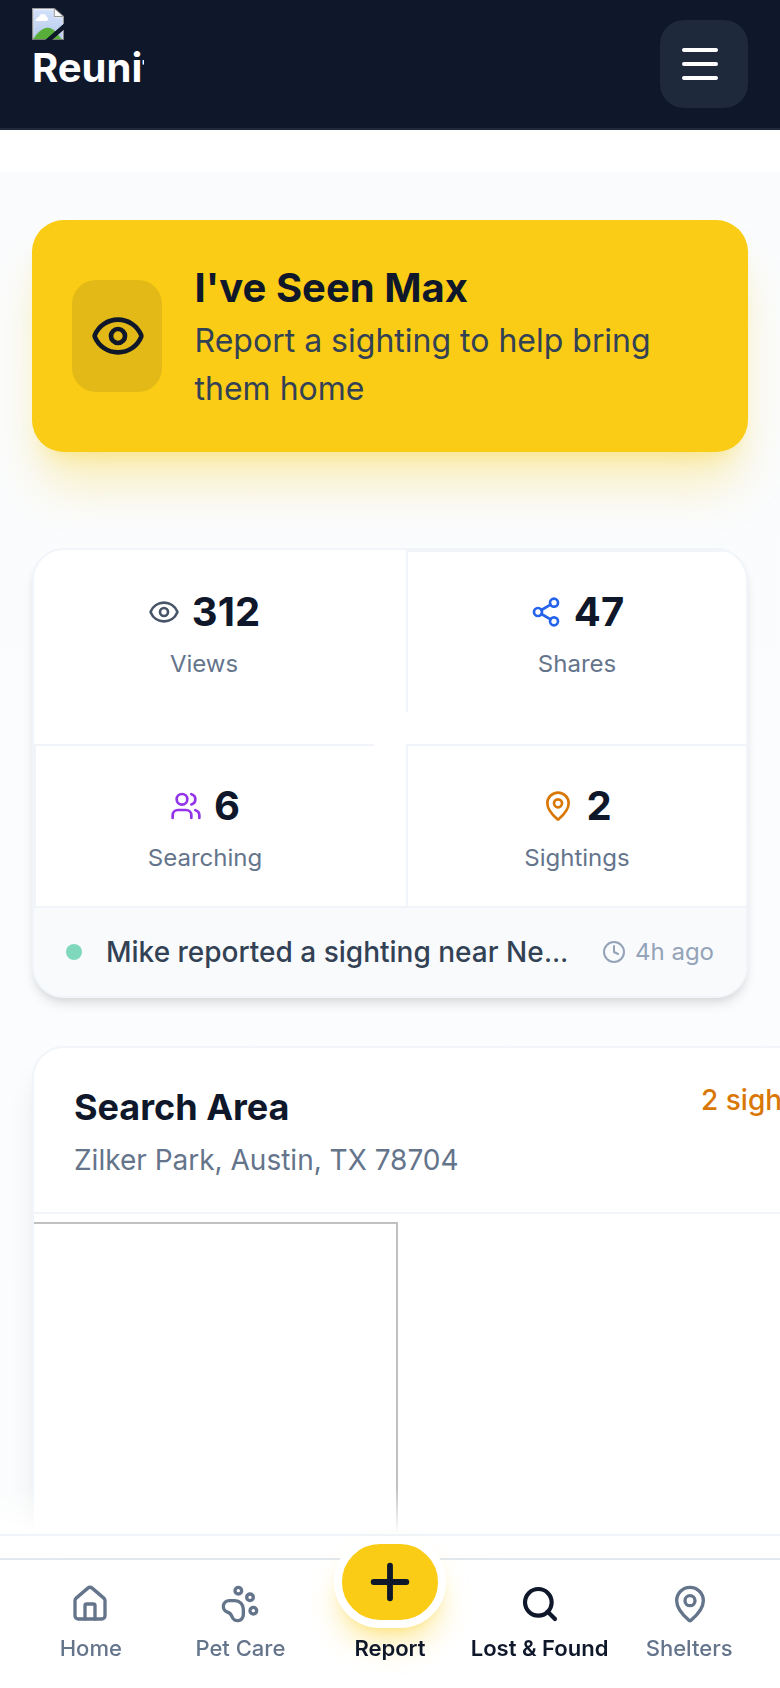
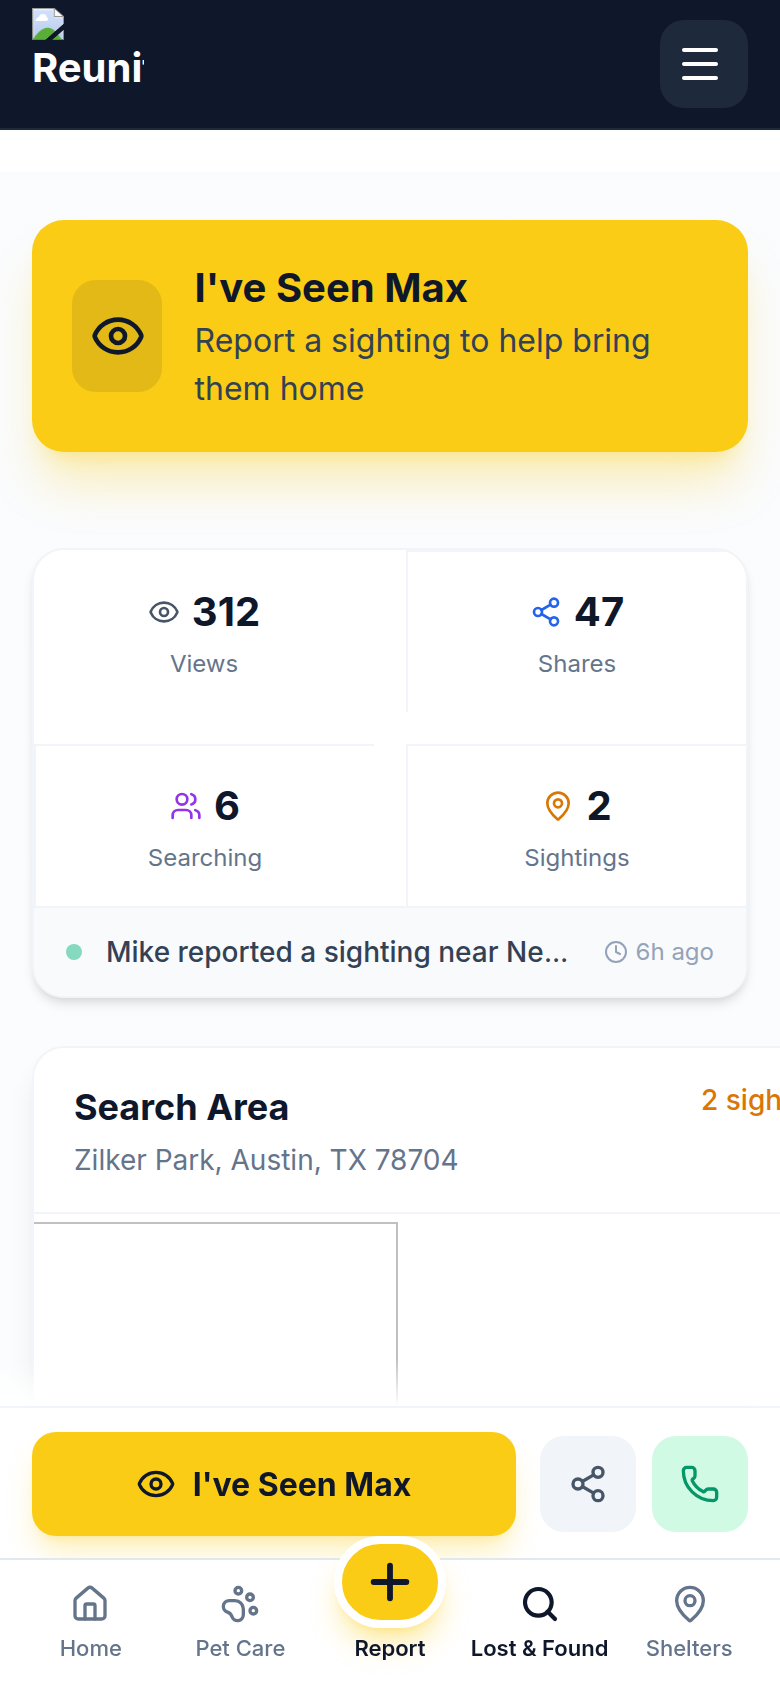
B5: the sighting CTA is reachable on a phone again
On a case page the sticky "I've Seen <pet>" bar was fixed bottom-0 z-40 and
the global tab bar is fixed bottom-0 z-50 with an opaque white background.
Measured at 390x844: the tab bar covered 65px of the CTA's 101px and a tap at
the CTA's centre landed on the tab bar underneath, navigating the finder away.
The single control that files a sighting could not be pressed on the device
most people use.

The bar now sits at bottom-16, exactly one tab-bar row up. Both are lg:hidden
and the tab bar only disappears inside an immersive route, which a case page
never is, so they move together. The CTA's safe-area padding is dropped since
the tab bar below owns that inset.

Verified at 390x844: CTA 679-780, tab bar 779-844, no overlap, and a real tap
at the CTA's centre opens the sighting modal instead of navigating away.
Screenshot: screenshots/audit-2026-08/state/31-mobile-case-cta-fixed.png

The probe script only looked for fixed elements at bottom:0, so it could not
see the moved bar; it now matches anything anchored near the bottom edge.

Claude-Session: https://claude.ai/code/session_013tPfhRLLRWQCoHr39v74ue

diff --git a/frontend/app/cases/[caseNumber]/components/StickyMobileCTA.js b/frontend/app/cases/[caseNumber]/components/StickyMobileCTA.js
@@ -43,13 +43,23 @@ export default function StickyMobileCTA({
           animate={{ y: 0, opacity: 1 }}
           exit={{ y: 100, opacity: 0 }}
           transition={{ type: 'spring', damping: 25, stiffness: 300 }}
-          className="fixed bottom-0 left-0 right-0 z-40 lg:hidden"
+          /* bottom-16 sits this bar exactly on top of GlobalBottomNav, whose
+             row is h-16. Both are lg:hidden and the tab bar only disappears
+             inside an immersive route, which a case page never is, so they
+             appear and disappear together.
+
+             This was bottom-0 z-40 against the tab bar's bottom-0 z-50 opaque
+             white: the tab bar covered 65px of this bar's 101px and a tap at
+             this bar's centre landed on the tab bar underneath. The one control
+             that files a sighting was unreachable on a phone. If you change the
+             tab bar height, change this with it. */
+          className="fixed bottom-16 left-0 right-0 z-40 lg:hidden"
         >
           {/* Gradient fade for smooth transition */}
           <div className="h-6 bg-gradient-to-t from-white to-transparent" />
 
-          {/* CTA Bar */}
-          <div className="bg-white border-t border-midnight-100 shadow-lg px-4 py-3 safe-area-inset-bottom">
+          {/* CTA Bar - no safe-area padding here; the tab bar below owns it */}
+          <div className="bg-white border-t border-midnight-100 shadow-lg px-4 py-3">
             <div className="flex items-center gap-3">
               {/* Primary CTA - Report Sighting */}
               <button

diff --git a/frontend/scripts/audit-probe-mobile-cta.js b/frontend/scripts/audit-probe-mobile-cta.js
@@ -52,9 +52,13 @@ fs.mkdirSync(OUT, { recursive: true });
     const box = (el) => { const r = el.getBoundingClientRect(); return { top: Math.round(r.top), bottom: Math.round(r.bottom), h: Math.round(r.height) }; };
     const tab = document.querySelector('nav.fixed.bottom-0');
     // the sticky CTA is the other fixed bottom-0 container
+    // Any fixed element anchored near the bottom - not just bottom:0, since the
+    // sighting CTA deliberately sits one tab-bar height up.
     const fixedBottoms = [...document.querySelectorAll('div,nav')].filter((e) => {
       const cs = getComputedStyle(e);
-      return cs.position === 'fixed' && cs.bottom === '0px' && e.getBoundingClientRect().height > 20;
+      if (cs.position !== 'fixed') return false;
+      const r = e.getBoundingClientRect();
+      return r.height > 20 && r.bottom > window.innerHeight - 200;
     });
     const info = fixedBottoms.map((e) => ({
       tag: e.tagName.toLowerCase(),
